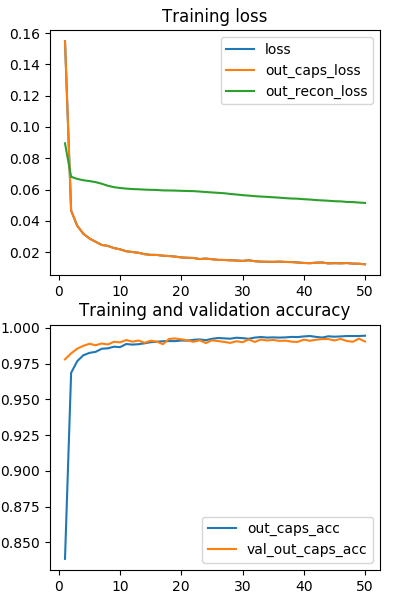
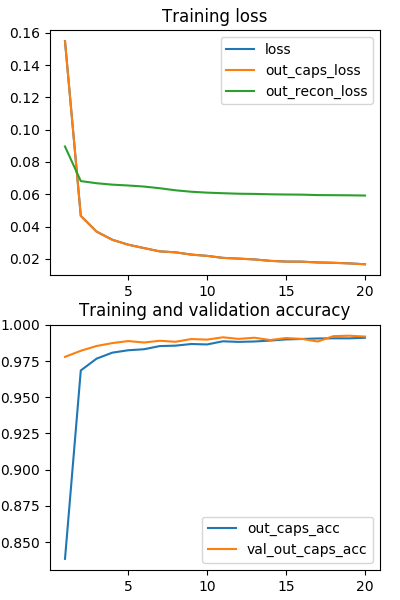
Optimize ConvCap to speed up

diff --git a/capsulelayers.py b/capsulelayers.py
@@ -115,7 +115,7 @@ class CapsuleLayer(layers.Layer):
         inputs_hat = tf.scan(lambda ac, x: K.batch_dot(x, self.W, [3, 2]),
                              elems=inputs_tiled,
                              initializer=K.zeros([self.input_num_capsule, self.num_capsule, 1, self.dim_vector]))
-
+        """
         # Routing algorithm V1. Use tf.while_loop in a dynamic way.
         def body(i, b, outputs):
             c = K.softmax(b)
@@ -127,17 +127,22 @@ class CapsuleLayer(layers.Layer):
 
         cond = lambda i, b, inputs_hat: i > 0
         loop_vars = [K.constant(self.num_routing), self.bias, K.sum(inputs_hat, 1, keepdims=True)]
-        _, self.bias, outputs = tf.while_loop(cond, body, loop_vars)
+        _, self.bias, outputs = tf.while_loop(cond, body, loop_vars)"""
 
-        """
-        # Routing algorithm V2. Seems not right. This may duplicate tensors by self.num_routing times.
+        # Routing algorithm V2. Use for iteration. V2 and V1 both work without much difference on performance
         for _ in range(self.num_routing):
             c = K.softmax(self.bias)
             c_expand = K.expand_dims(K.expand_dims(K.expand_dims(c, 2), 2), 0)
             outputs = K.sum(c_expand * inputs_hat, 1, keepdims=True)
             outputs = squash(outputs)
-            self.bias = self.bias + K.sum(inputs_hat * outputs, [0, -2, -1])
-        """
+            self.bias = K.update(self.bias, self.bias + K.sum(inputs_hat * outputs, [0, -2, -1]))
+
+        # Handling with no routing scenario. Prior bias will always be zero.
+        if self.num_routing == 0:
+            c = K.softmax(self.bias)
+            c_expand = K.expand_dims(K.expand_dims(K.expand_dims(c, 2), 2), 0)
+            outputs = squash(K.sum(c_expand * inputs_hat, 1, keepdims=True))
+
         return K.reshape(outputs, [-1, self.num_capsule, self.dim_vector])
 
     def compute_output_shape(self, input_shape):
@@ -155,11 +160,13 @@ def PrimaryCap(inputs, dim_vector, n_channels, kernel_size, strides, padding):
     :param padding: 
     :return: output tensor, shape=[None, num_capsule, dim_vector]
     """
-    outputs = []
-    for _ in range(n_channels):
-        output = layers.Conv2D(filters=dim_vector, kernel_size=kernel_size, strides=strides, padding=padding)(inputs)
-        outputs.append(layers.Reshape([output.get_shape().as_list()[1] ** 2, dim_vector])(output))
-
-    outputs = layers.Concatenate(axis=1)(outputs)
-
+    # outputs = []
+    # for _ in range(n_channels):
+    #     output = layers.Conv2D(filters=dim_vector, kernel_size=kernel_size, strides=strides, padding=padding)(inputs)
+    #     outputs.append(layers.Reshape([output.get_shape().as_list()[1] ** 2, dim_vector])(output))
+    #
+    # outputs = layers.Concatenate(axis=1)(outputs)
+    #
+    output = layers.Conv2D(filters=dim_vector*n_channels, kernel_size=kernel_size, strides=strides, padding=padding)(inputs)
+    outputs = layers.Reshape(target_shape=[-1,8])(output)
     return layers.Lambda(squash)(outputs)

diff --git a/CapsNet.py b/CapsNet.py
@@ -83,7 +83,7 @@ if __name__ == "__main__":
     parser.add_argument('--batch_size', default=100, type=int)
     parser.add_argument('--epochs', default=20, type=int)
     parser.add_argument('--lam_recon', default=0.0005, type=float)
-    parser.add_argument('--num_routing', default=3, type=int)
+    parser.add_argument('--num_routing', default=3, type=int)  # num_routing = 0 means not using routing algorithm
     parser.add_argument('--shift_fraction', default=0.1, type=float)
     parser.add_argument('--save_dir', default='./result')
     args = parser.parse_args()
@@ -125,5 +125,5 @@ if __name__ == "__main__":
     print('Trained model saved to \'trained_model.h5\'')
 
     from utils import plot_log
-    plot_log(args.save_dir + '/log.png')
+    plot_log(args.save_dir + '/log.csv')
 

diff --git a/utils.py b/utils.py
@@ -2,6 +2,7 @@ import numpy as np
 from matplotlib import pyplot as plt
 import csv
 
+
 def plot_log(filename):
     # load data
     keys = []
@@ -20,7 +21,7 @@ def plot_log(filename):
 
         values = np.reshape(values, newshape=(50, len(keys)))
         values[:,0] += 1
-    print(keys)
+
     fig = plt.figure(figsize=(4,6))
     fig.subplots_adjust(top=0.95, bottom=0.05, right=0.95)
     fig.add_subplot(211)
@@ -37,11 +38,12 @@ def plot_log(filename):
     plt.legend()
     plt.title('Training and validation accuracy')
 
-    print(values)
     # fig.savefig('result/log.png')
     plt.show()
 
 
+if __name__=="__main__":
+    plot_log('result/log.csv')
 
 
 

diff --git a/README.md b/README.md
@@ -4,7 +4,7 @@ A Keras implementation of CapsNet in Hinton's paper [Dynamic Routing Between Cap
 
 Recent updates:
 
-- Correct the routing algorithm by using tf.while_loop
+- Accelerate the code by optimizing Primary Capsule. Now it takes 110s per epoch.
 
 ## Requirements
 - [Keras](https://github.com/fchollet/keras) 
@@ -39,43 +39,29 @@ passed to the function in the same way. Please refer to CapsNet.py
 
 ## Results
 
-We just corrected the routing algorithm by using tf.while_loop. 
-I myself think the logic is right, loop in a dynamic way. 
-But the accuracy is not as good as the version that without using routing and the convergence is slower.
-Big help is need on the implementation for the routing algorithm. Thanks.   
+Main result by launching `python CapsNet.py`:
 
-Here's the results of current commit:
-
-   Epoch     |   1   |   5  |  10  |  20  |  50   
-   :---------|:------:|:---:|:----:|:----:|:------:
-   train_acc |  83.4 | 98.2 | 98.7 | 99.1 |  99.4 
-   vali_acc  |  97.8 | 98.9 | 99.0 | 99.2 |  99.1
+   Epoch     |   1   |   5  |  10  |  20    
+   :---------|:------:|:---:|:----:|:----:
+   train_acc |  83.4 | 98.2 | 98.7 | 99.1 
+   vali_acc  |  97.8 | 98.9 | 99.0 | 99.2 
   
-Losses and accuracies:
+Losses and accuracies:   
 ![](result/log.png)
 
-**The following results are generated by using**    
-`commit b646ee1218e6addb5952ba13e70cc7de267d0fc1`   
-I find the routing algorithm is not working at all in this commit. 
-The prior b is fixed to 0. But, interestingly, the model still gets good results.
 
-Accuracy with data augmentation (shift at most 2 pixels in each direction):     
+**Results without routing algorithm**   
+by launching `python CapsNet.py --num_routing 0`   
+The prior b is fixed to 0. But, interestingly, the model still gets good results, even better than using routing.  
 
-   Epoch     |   1   |   5  |  10  |  15  |  20   
+   Epoch     |   1   |   2  |  5  |  10  |  20   
    :---------|:------:|:---:|:----:|:----:|:------:
-   train_acc |  91.0 | 99.0 | 99.4 | 99.6 |  99.7 
-   vali_acc  |  98.7 | 99.24| 99.31| 99.39|  99.52
+   train_acc |  90.3 | 98.2 | 99.0 | 99.4 |  99.7 
+   vali_acc  |  98.8 | 99.1 | 99.36| 99.48|  99.53
    
-   
-Accuracy without data augmentation:   
 
-   Epoch     |   1   |   2  |   5   |  10  | 11
-   :---------|:------:|:---:|:------:|:---: |:---:  
-   train_acc |  94.8 | 98.9 |  99.6 | 99.9 | 99.95
-   vali_acc  |  98.7 | 99.0 | 99.39 | 99.38| 99.45
+Every epoch consumes about `110s` on a single GTX 1070 GPU.   
 
-Every epoch consumes about 260s on a single GTX 1070 GPU.   
-Maybe there're some problems in my implementation. Contributions are welcome.
 
 ## TODO: 
 - Optimize the code implementation and comments. 
